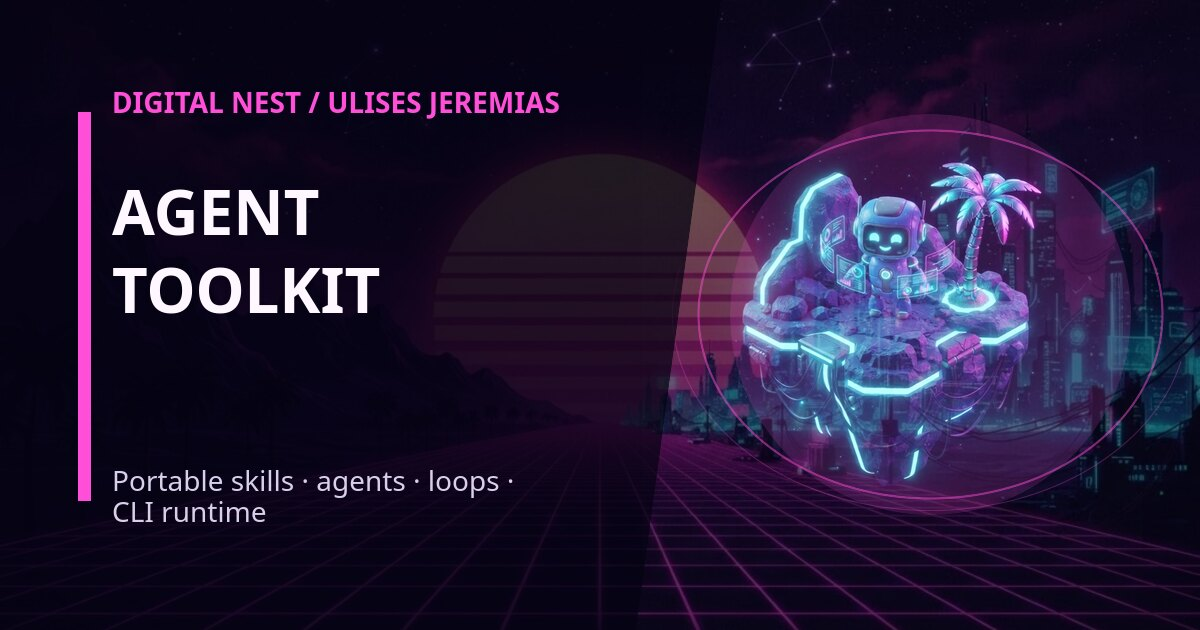
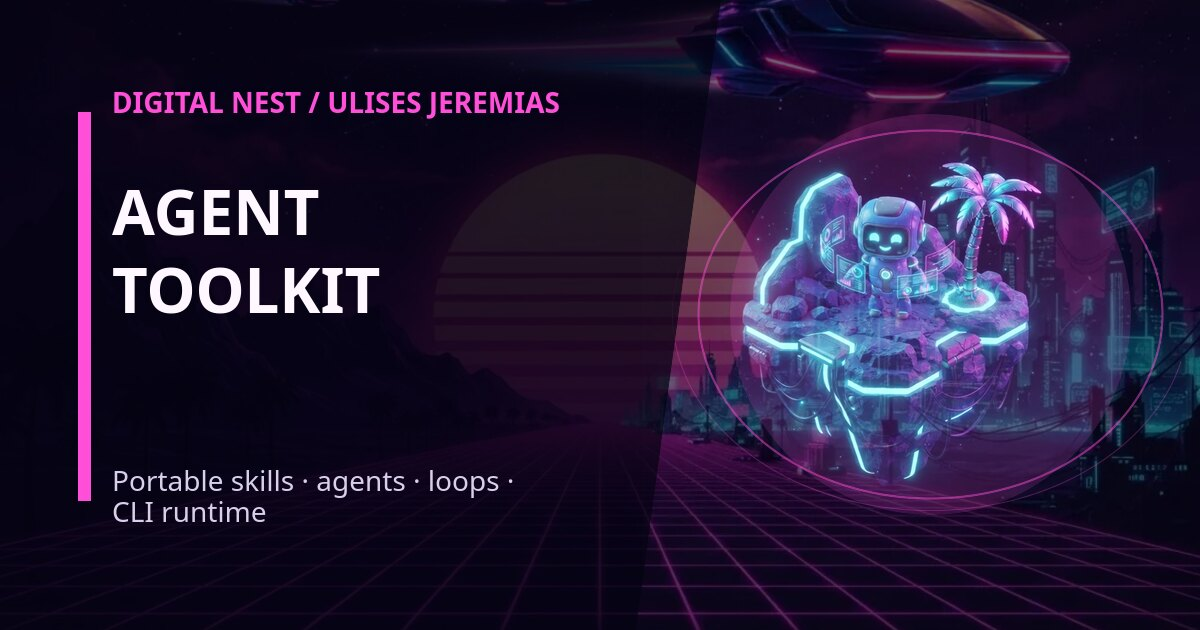
feat(home): add neon air traffic and reveal motion

Changed region(s): [[0.6783, 0.0, 0.8942, 0.181], [0.4317, 0.0, 0.7092, 0.1508]]

diff --git a/src/styles/home.css b/src/styles/home.css
@@ -1027,6 +1027,19 @@
     padding-block-end: 1.5rem;
   }
 
+  .synthwave-environment__plate {
+    opacity: 0.78;
+  }
+
+  .synthwave-environment__veil {
+    background: linear-gradient(
+      90deg,
+      color-mix(in srgb, var(--nest-midnight-950) 36%, transparent),
+      color-mix(in srgb, var(--nest-midnight-950) 54%, transparent) 58%,
+      color-mix(in srgb, var(--nest-midnight-950) 34%, transparent)
+    );
+  }
+
   .hero__identity {
     text-align: center;
     margin-inline: auto;

diff --git a/docs/launch/2026-08-24-asset-license-audit.md b/docs/launch/2026-08-24-asset-license-audit.md
@@ -20,17 +20,19 @@ embedded artwork was explicitly excluded from the product.
 
 ## Inventory
 
-The post-cleanup inventory contains 88 tracked public files:
+The current inventory contains 131 tracked public files:
 
-| Area                       | Files | Contents                                                                    |
-| -------------------------- | ----: | --------------------------------------------------------------------------- |
-| `public/assets/`           |    33 | First-party atlas source PNGs and optimized Nest WEBP art                   |
-| `public/media/dotfiles/`   |    25 | Seven source captures and 18 responsive WEBP derivatives                    |
-| `public/media/hornero-os/` |     4 | Hornero OS MIT mark (SVG) and three WEBP wallpaper sizes (added 2026-09-30) |
-| `public/social/`           |    10 | Route social cards, all JPEG                                                |
-| `public/icons/`            |     5 | Apple Touch Icon and 192/512 PNG variants                                   |
-| `public/fonts/`            |    10 | JetBrains Mono and Orbitron WOFF2 files                                     |
-| Public root                |     5 | Favicon SVG/ICO/PNG files and `site.webmanifest`                            |
+| Area                       | Files | Contents                                                      |
+| -------------------------- | ----: | ------------------------------------------------------------- |
+| `public/assets/`           |    46 | First-party atlas fallback PNGs and responsive Nest WEBP art  |
+| `public/media/dotfiles/`   |    24 | Approved first-party captures and responsive WEBP derivatives |
+| `public/media/hornero-os/` |     4 | Hornero OS MIT mark and three WEBP wallpaper sizes            |
+| `public/media/v/`          |    16 | V ecosystem artwork and responsive VSL examples               |
+| Other `public/media/`      |     6 | Create Awesome marks and two NaNLABS Octonan formats          |
+| `public/social/`           |    15 | Route-specific social cards, all JPEG                         |
+| `public/icons/`            |     5 | Apple Touch Icon and 192/512 PNG variants                     |
+| `public/fonts/`            |    10 | JetBrains Mono and Orbitron WOFF2 files                       |
+| Public root                |     5 | Favicon SVG/ICO/PNG files and `site.webmanifest`              |
 
 The byte inventory was measured with `find public -type f`. The route budget
 checks, rather than this aggregate, remain authoritative for per-route delivery
@@ -42,12 +44,13 @@ limits.
 | ----------------------------- | ------------------------------------------------------------------------------------------------------------------------------------------------------------------------ | ----------------------------------------------------------------------------------------------------------- | -------------------------------------------------------------------------------------------------------------------------------------------------------------------------------------------------- |
 | Digital Nest atlas art        | First-party Digital Nest assets committed in this repository; owner Ulises Jeremias                                                                                      | Site `LICENSE` (MIT) for site-owned code and assets                                                         | Used by the home observatory, Projects archive, shared shell, and social-card generator                                                                                                            |
 | Dotfiles captures             | `ulises-jeremias/dotfiles/static`; source and credit are recorded in `src/features/dotfiles/data/index.ts`                                                               | Dotfiles repository MIT; adapted Quickshell attribution is separately recorded as GPL-3.0                   | Gallery uses only the six approved first-party capture sets and responsive derivatives                                                                                                             |
-| Social cards                  | `scripts/generate-social-cards.mjs`, using first-party Nest art and locally installed Noto Sans for rendered text                                                        | First-party art permissions plus the source licenses above; Noto Sans is only a local generation dependency | Ten 1200x630 cards reviewed for route text, artwork, safe canvas, and missing assets                                                                                                               |
+| Social cards                  | `scripts/generate-social-cards.mjs`, using first-party Nest art and locally installed Noto Sans for rendered text                                                        | First-party art permissions plus the source licenses above; Noto Sans is only a local generation dependency | Fifteen 1200x630 cards reviewed for route text, artwork, safe canvas, and missing assets                                                                                                           |
 | Favicon and application icons | `public/favicon.svg` and the first-party Digital Nest mark                                                                                                               | Site-owned asset under the site MIT license                                                                 | PNG and ICO derivatives are used by the document head and manifest                                                                                                                                 |
 | JetBrains Mono                | `@fontsource/jetbrains-mono` 5.3.0 package                                                                                                                               | SIL Open Font License 1.1; copyright notice is present in the package license                               | Ten shipped WOFF2 files are embedded locally; no remote font request                                                                                                                               |
 | Orbitron                      | `@fontsource/orbitron` 5.3.0 package                                                                                                                                     | SIL Open Font License 1.1; copyright notice is present in the package license                               | Ten total font files include the six Orbitron weights used by the site                                                                                                                             |
 | V ecosystem references        | License table in `src/features/v/data/index.ts`                                                                                                                          | V, VSL, VTL, RxV, and setup-v are MIT; Awesome V is CC0 1.0                                                 | Repository links and text references only; no upstream artwork is copied                                                                                                                           |
 | Hornero OS brand assets       | `HorneroOS/config` `assets/brand/logo.svg` and `assets/brand/wallpaper/hornero-dark.png` (org owned by Ulises Jeremias); copied 2026-09-30 to `public/media/hornero-os/` | HorneroOS/config MIT                                                                                        | Mark and brand wallpaper on `/hornero-os` and its social card, captioned "brand wallpaper, not a screenshot" with credit (ADR-004). No third-party screenshots with unverified wallpapers are used |
+| Homepage sky traffic          | `src/media-sources/nest/sky-traffic.png`, generated for this site; composited by `scripts/generate-hero-scene.mjs`                                                       | Site license (MIT)                                                                                          | Used in responsive homepage background plates and generated social cards; decorative, no labels or metrics                                                                                         |
 | V mascot reference            | `vlang/v-mascot`, referenced in the Projects ledger                                                                                                                      | CC BY-NC 4.0; non-commercial and attribution restrictions apply                                             | Text reference only; no mascot artwork is copied or served. A first-party V ecosystem schematic is used on `/v`.                                                                                   |
 
 ## Cleanup
@@ -117,3 +120,17 @@ inline SVG now maps selected independent V project areas without suggesting depe
 `vlang/v-mascot` remains a text-only upstream reference; no mascot artwork is redistributed by the
 site. This resolves the website's reproduction decision without deciding whether portfolio use
 would qualify as noncommercial.
+
+## Amendment — 2026-10-05 (Digital Nest sky traffic)
+
+The homepage hero now includes an original air-traffic illustration composited
+into both responsive scene plates. The 2048 × 768 transparent PNG source is
+retained at `src/media-sources/nest/sky-traffic.png`; the background sources
+remain alongside it as `hero-bg-base.webp` and `hero-bg-base-sm.webp`. Run
+`pnpm assets:hero-scene` to rebuild the WebP plates and `pnpm
+assets:hero-fallback` to rebuild the JPEG fallback. The artwork was generated
+for this site with the built-in OpenAI image-generation tool on 2026-10-05 from
+a prompt for three synthwave hovercraft on a transparent background. It
+contains no text, marks, third-party characters, or copied project artwork.
+The source files and derivatives are site-owned first-party art under the
+site's MIT license.

diff --git a/docs/design/current/social-assets.md b/docs/design/current/social-assets.md
@@ -8,7 +8,7 @@ generated portrait is used.
 
 - Output: `public/social/*.jpg`
 - Dimensions: 1200x630
-- Source plate: `public/assets/nest/hero-bg.webp`
+- Source plate: `public/assets/nest/hero-bg.webp`, including the original sky-traffic art
 - Route art: the corresponding first-party island under
   `public/assets/nest/island-*.webp`; the stack, trajectory, and support dock
   use build-only SVG sources in `src/media-sources/social/`, while the Hornero
@@ -49,11 +49,13 @@ output and add no runtime dependency.
 The legacy island PNG fallbacks under `public/assets/` can be regenerated from
 the WebP sources with `node scripts/generate-island-pngs.mjs --regenerate`.
 Island fallbacks now match their 640px source dimensions (instead of shipping
-1024px copies) and the logo fallback uses its 256px source. The 1024px hero
-fallback is an optimized JPEG generated from the first-party WebP source with
-`pnpm assets:hero-fallback`; at 245 KB it preserves broad browser support while
-reducing the former 1.27 MB PNG by 81%. The island fallback check also verifies
-the hero JPEG alongside each island PNG fallback.
+1024px copies) and the logo fallback uses its 256px source. The hero uses
+responsive 1024px and 960px scene plates generated from `src/media-sources/nest/`
+with `pnpm assets:hero-scene`. Its 1024px fallback is an optimized JPEG generated
+from the desktop WebP source with `pnpm assets:hero-fallback`; at 219 KB it
+preserves broad browser support while reducing the former 1.27 MB PNG by 83%.
+The island fallback check also verifies the hero JPEG alongside each island PNG
+fallback.
 
 ## 2026-10-04 update
 
@@ -62,3 +64,8 @@ the hero JPEG alongside each island PNG fallback.
 - Integrated art directly into the background plate with a restrained route-color orbit and an angled copy plane; removed the detached black art panel.
 - Replaced reused Home artwork on About and Sponsor with original trajectory and support-dock SVGs; Agentic now has a separate three-project map.
 - Corrected stale HorneroConfig and Hornero OS claims, added Rust to Create Awesome, and clarified that the Toolkit card describes portable capabilities plus its CLI runtime.
+
+## 2026-10-05 update
+
+- Added original generated sky-traffic artwork to both responsive homepage scene plates and rebuilt all 15 route cards from the same background source.
+- The existing scene drift animates the aircraft with the skyline without adding a network request.
